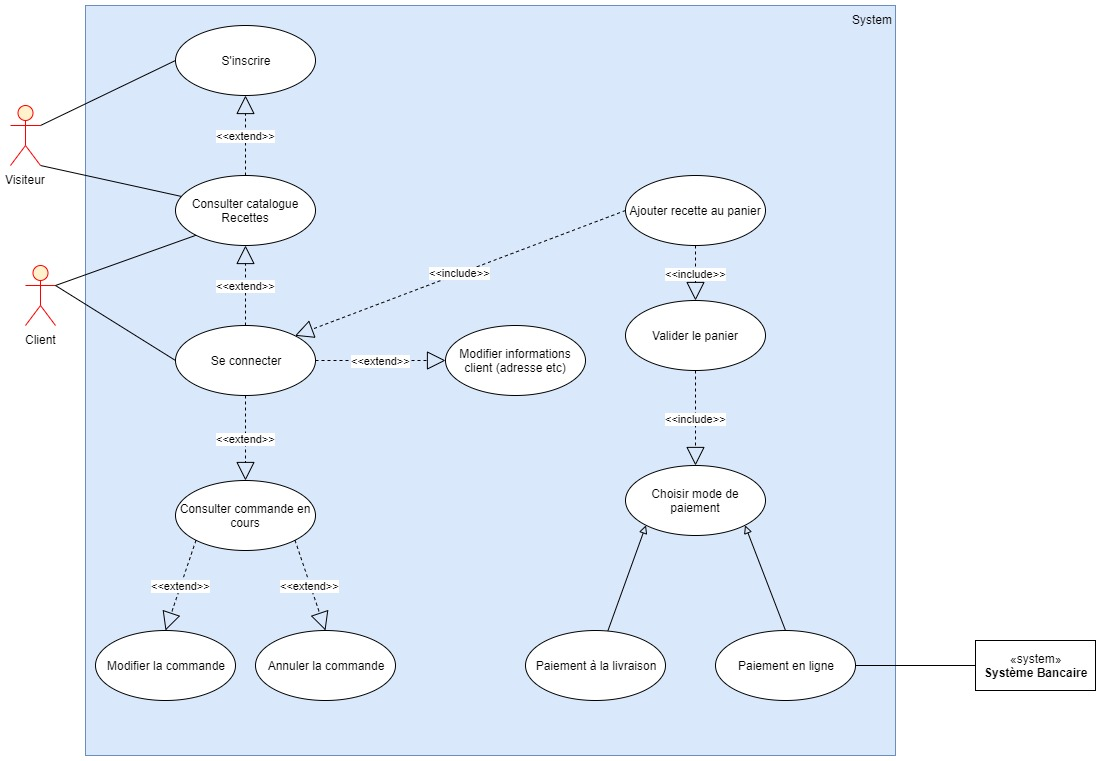
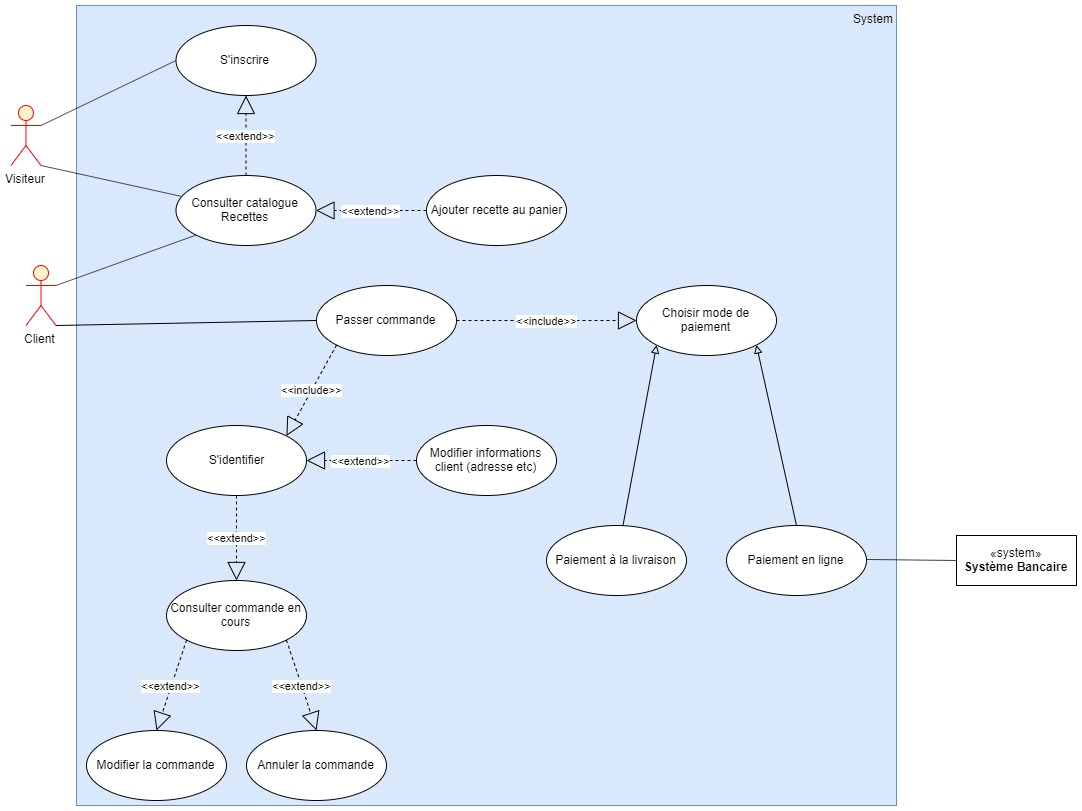
maj diagrammes et Analyse, ajout diagramme equipe nationale

diff --git a/Analyse.md b/Analyse.md
@@ -17,40 +17,46 @@
 
 <img src = "Diagrammes/Diagramme_contexte.jpg" title = "Diagramme de contexte">
 
-## Tâches
-
-- **Responsable doit pouvoir**
-  - Accéder au suivi des commandes en temps réel (passées, en préparation et en livraison)
-  - Accéder au stock d'ingrédients restants pour savoir quelles pizzas peuvent encore être réalisées
-- **Pizzaiolo doit pouvoir**
-  - Voir commande à préparer, changer état commande (en préparation, à livrer)
-  - Accéder au stock d'ingrédients restants pour savoir quelles pizzas peuvent encore être réalisées
-  - Accéder à un aide-mémoire indiquant la recette de chaque pizza
-- **Livreur doit pouvoir**
-  - Changer état d'une commande pour indiquer sa livraison
-- **Client doit pouvoir**
-  - Commander
-    - en ligne
-    - au téléphone
-    - sur place
-  - Payer
-    - en ligne
-    - à la livraison
-  - Modifier ou annuler une commande qui n'est pas en préparation
-
-**Questions**
-    - Possibilité pour le client de se connecter pour garder ses informations en mémoire? (voir son historique de commandes?)
-    - Gestion des droits utilisateurs? (Peut-être un peu tôt)
+## Packages et Tâches
 
 <img src = "Diagrammes/Diagramme_packages.jpg" title = "Diagramme de contexte">
 
-- **Package Client:**
-  - Visiteur doit pouvoir
-    - Consulter catalogue recettes
-    - S'incrire
-    - S'identifier
-  - Client doit pouvoir
-    - Sélectionner produits
+- **Equipe Nationale doit pouvoir**
+  - Se connecter
+    - Consulter les commandes en cours peut importe leur état, y compris les commandes livrées
+    - Consulter l'état du stock d'ingrédients
+    - Gérer les droits utilisateurs (administration)
+
+<img src = "Diagrammes/Cas d'utilisation/Cas d'utilisation Equipe Nationale.jpg" title = "Cas d'utilisation Equipe Nationale">
+
+- **Responsable doit pouvoir**
+  - Se connecter
+    - Consulter les commandes en cours peut importe leur état
+    - Modifier l'état d'une commande ('en cours de préparation, 'à traiter')
+    - Consulter l'Aide-mémoire de recettes de pizza
+    - Consulter l'état du stock d'ingrédients
+    - Gérer les droits utilisateurs (administration)
+- **Pizzaiolo doit pouvoir**
+  - Se connecter
+  - Consulter les commandes à traiter
+  - Modifier l'état d'une commande ('en cours de préparation, 'à traiter')
+  - Consulter l'Aide-mémoire de recettes de pizza
+  - Consulter l'état du stock d'ingrédient?
+- **Livreur doit pouvoir**
+  - Se connecter
+  - Consulter commandes à livrer
+  - Changer état commander en "Livrée"
+  - Récupérer Paiement Commande
+
+<img src = "Diagrammes/Cas d'utilisation/Cas d'utilisation Livreur.jpg" title = "Cas d'utilisation Livreur">
+
+- **Visiteur doit pouvoir**
+  - Consulter catalogue recettes
+  - S'incrire
+  - S'identifier
+
+- **Client doit pouvoir**
+  - Sélectionner produits
     - Valider commande
     - Choisir mode  paiement
       - Payer en ligne
@@ -59,29 +65,4 @@
       - Modifier commande tant que pas "en préparation"
       - Annuler commande tant que pas "en préparation"
 
-- **Package Client:**
-  - Livreur doit pouvoir
-    - S'identifier
-    - Consulter commandes à livrer
-    - Changer état commander en "Livrée"
-    - Récupérer Paiement Commande
-
-- **Package Pizzéria:**
-  - Pizzaiolo
-  - Responsable
-
-- **Package Equipe Nationale:**
-  - Equipe Nationale
-
-
-
-- **Package Gestion de Commande:**
-  - Interface interne
-        - Suivi état commande (à traiter, en préparation, à livrer, en livraison, livrée)
-        - Changement état commande (à traiter, en préparation, à livrer, en livraison, livrée)
-  
-- **Package Gestion Générale:**
-      - Suivi stock ingrédients
-      - Aide-Mémoire recettes de pizza
-      - Administration? (droits utilisateurs)
-    
+<img src = "Diagrammes/Cas d'utilisation/Cas d'utilisation Client.jpg" title = "Cas d'utilisation Client">
